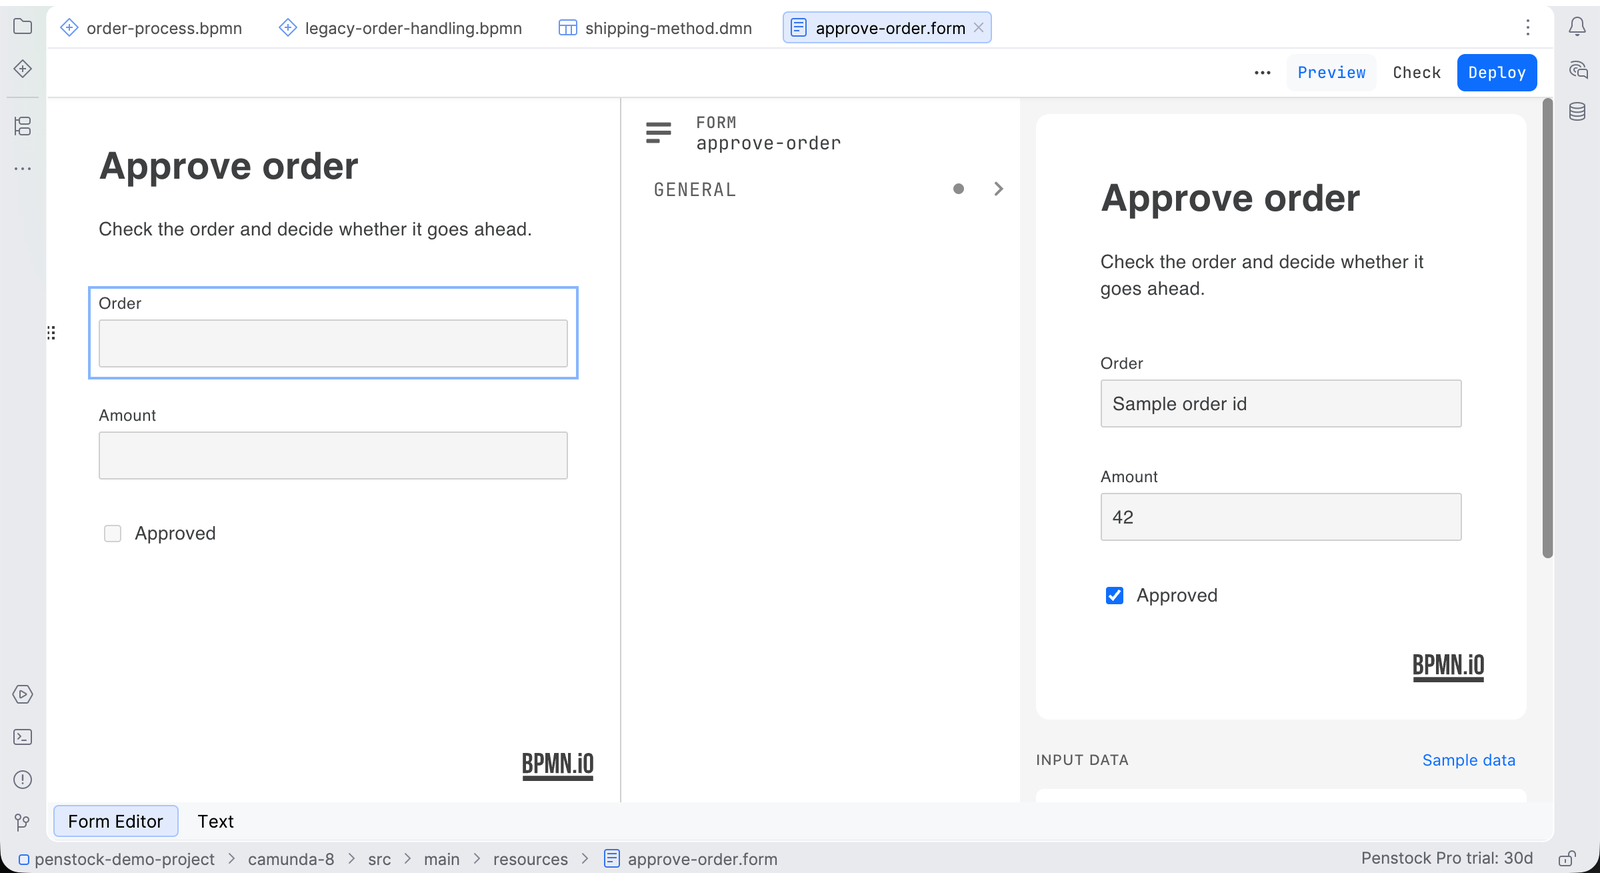
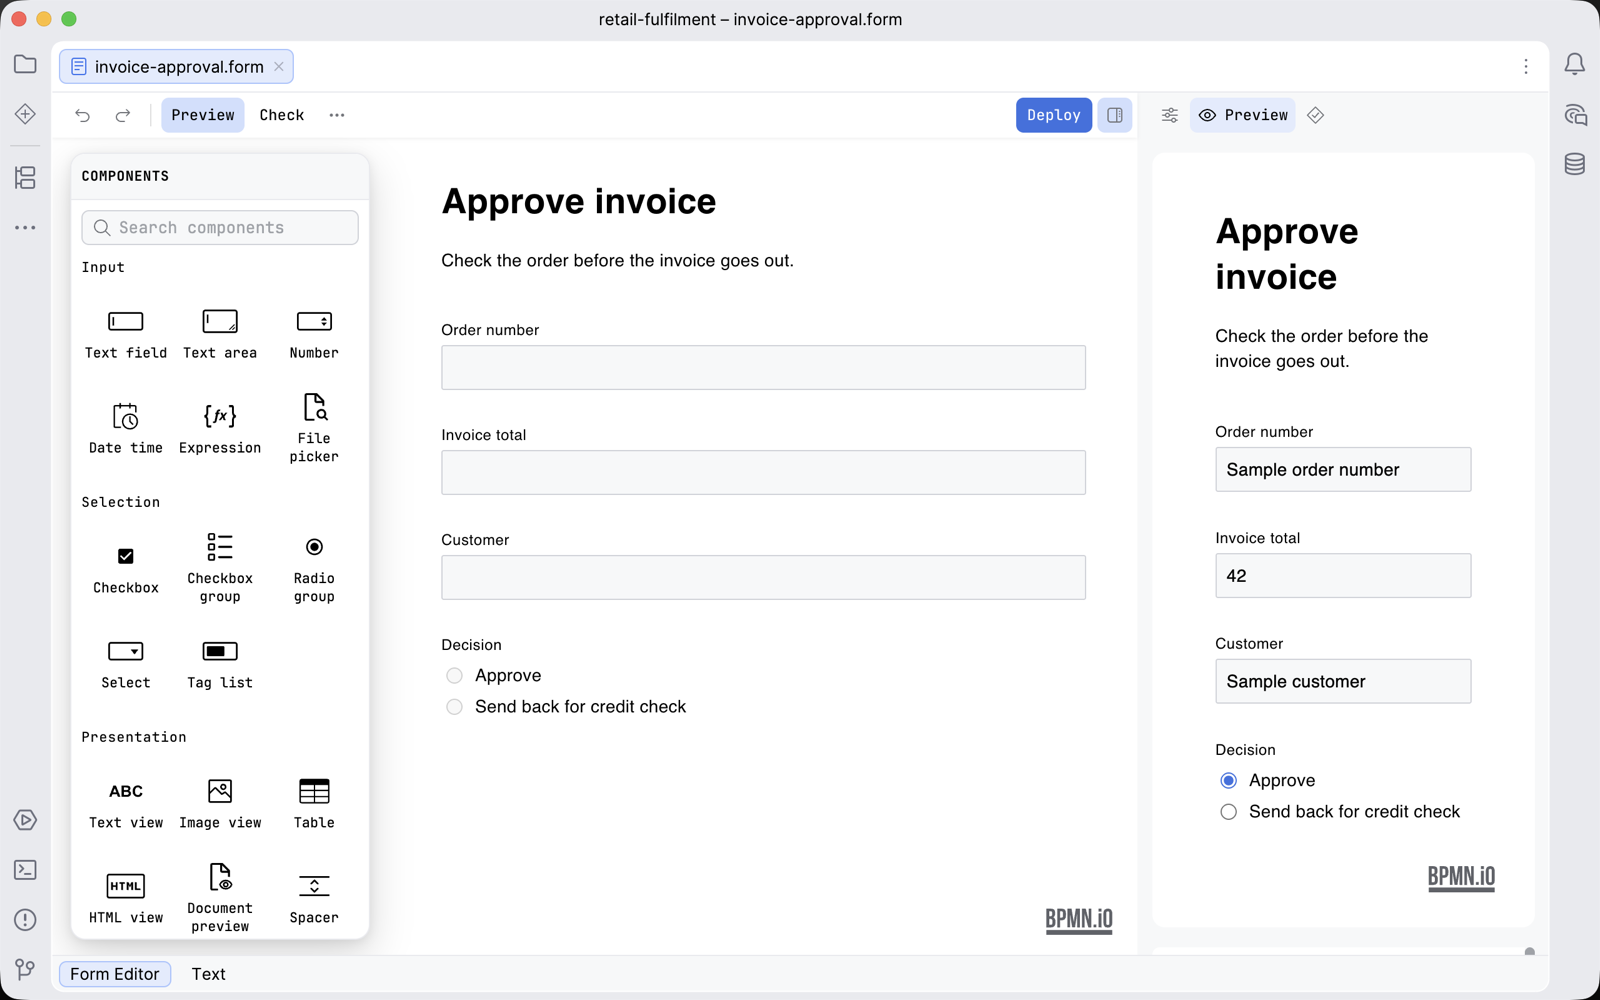
Show the new form frame on the form editor page

diff --git a/docs/guide/form-editor.html b/docs/guide/form-editor.html
@@ -153,8 +153,8 @@
 <p>The palette is hidden while the preview is open, and its tooltip says so. It is why the canvas never grows a fourth column for the preview. The form-js logo stays visible.</p>
 
 <figure class="shot">
-  <img src="../img/form-editor.png" alt="The Preview tab of the sidebar showing a form as a user sees it, with the input data below it and the Properties tab beside it">
-  <figcaption>The form as a user sees it, with the input data under it. The palette is hidden while the preview is open.</figcaption>
+  <img src="../img/form-editor.png" alt="The invoice approval form open in the form editor, with the Components palette at the left of the canvas and the Preview tab of the sidebar showing the same form as a user sees it, filled with sample values">
+  <figcaption>The form on the canvas with its Components palette, and the Preview tab in the sidebar showing it as a user sees it.</figcaption>
 </figure>
 
 <h2 id="the-form-check"><a href="#the-form-check">The form check</a></h2>

diff --git a/tools/pages/guide/form-editor.html b/tools/pages/guide/form-editor.html
@@ -41,8 +41,8 @@ related: dmn-editor, deployment, share-html, sidebar
 <p>The palette is hidden while the preview is open, and its tooltip says so. It is why the canvas never grows a fourth column for the preview. The form-js logo stays visible.</p>
 
 <figure class="shot">
-  <img src="@img/form-editor.png" alt="The Preview tab of the sidebar showing a form as a user sees it, with the input data below it and the Properties tab beside it">
-  <figcaption>The form as a user sees it, with the input data under it. The palette is hidden while the preview is open.</figcaption>
+  <img src="@img/form-editor.png" alt="The invoice approval form open in the form editor, with the Components palette at the left of the canvas and the Preview tab of the sidebar showing the same form as a user sees it, filled with sample values">
+  <figcaption>The form on the canvas with its Components palette, and the Preview tab in the sidebar showing it as a user sees it.</figcaption>
 </figure>
 
 <h2>The form check</h2>
